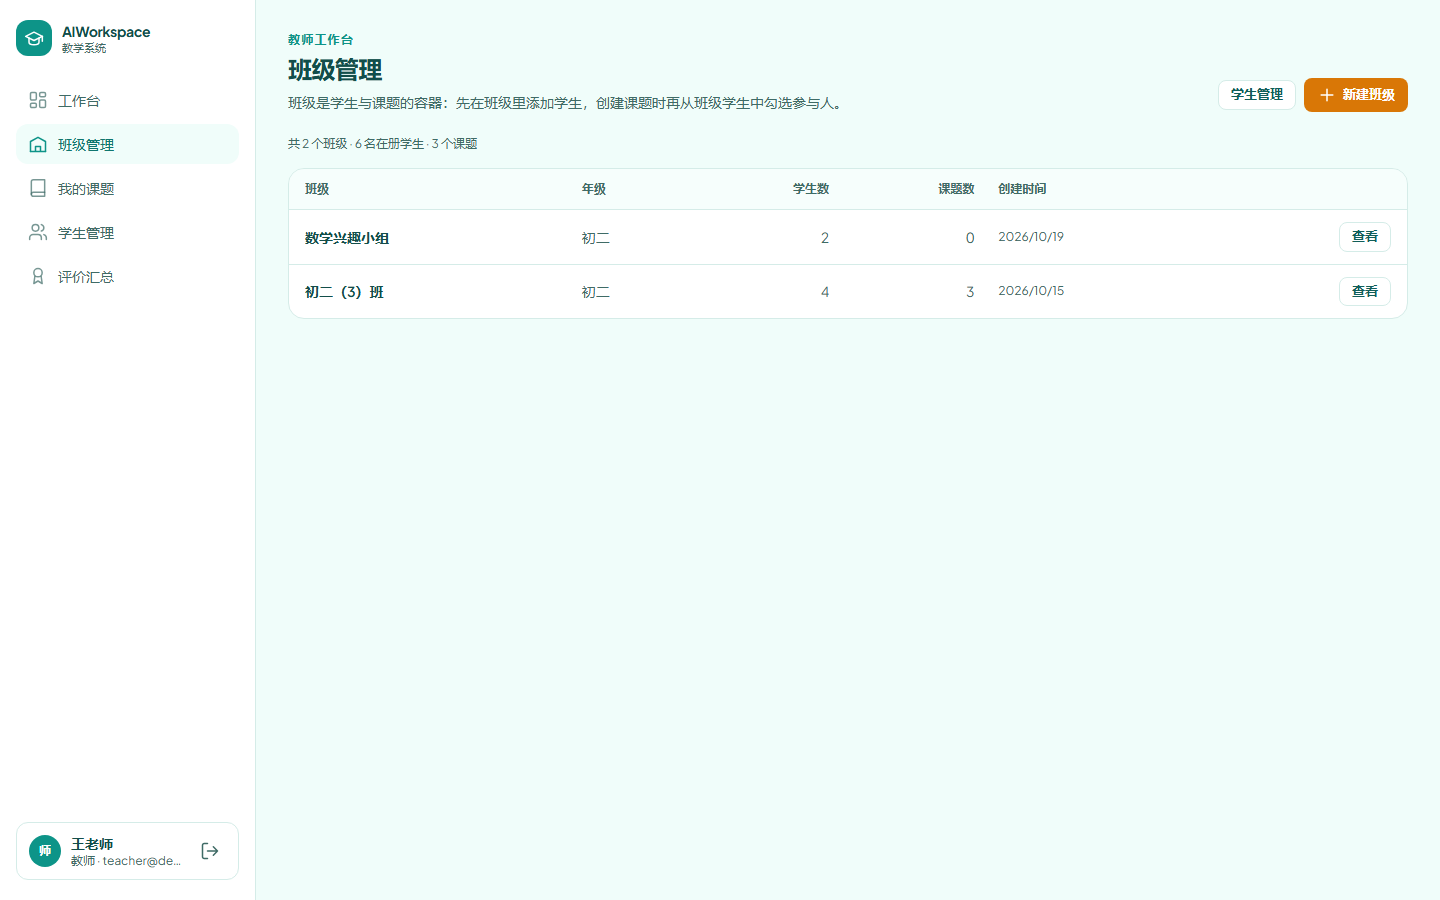
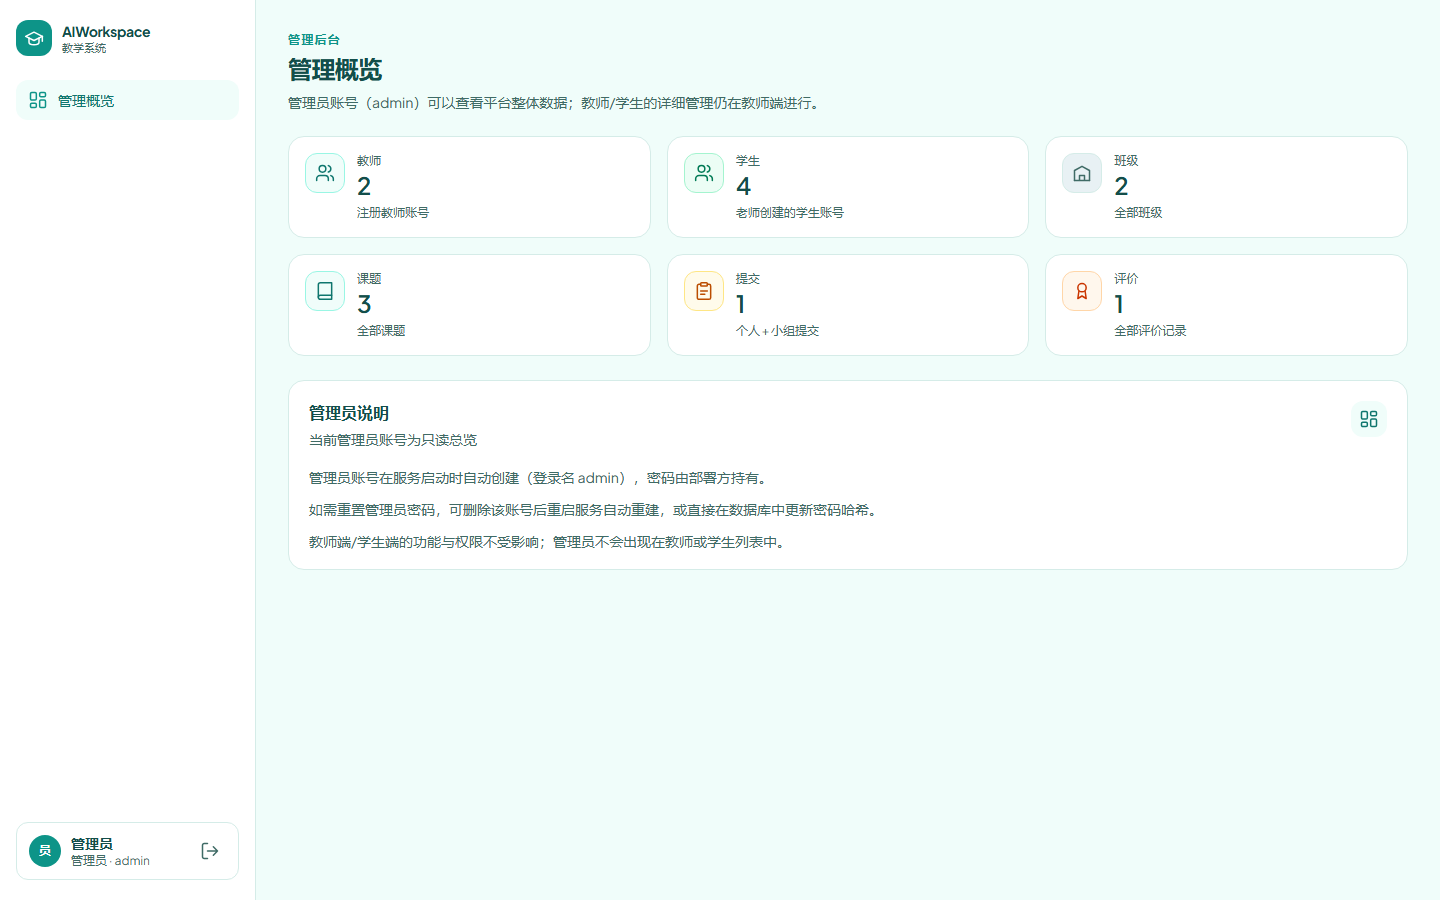
feat: 管理员账号与只读管理后台
- 服务启动时幂等确保 admin 账号（role=ADMIN，密码在服务端种子代码中，不进 README/记忆库）
- 新增 GET /api/admin/overview 只读统计（教师/学生/班级/课题/提交/评价），仅 ADMIN 可访问
- 前端新增 /admin 管理概览页，ADMIN 登录后跳转 /admin；教师/学生访问 admin 接口 403，admin 访问教师接口 403
- 截图脚本支持 CAPTURE_ADMIN_PASSWORD 环境变量（密码不入库）

diff --git a/web/src/pages/admin/Dashboard.tsx b/web/src/pages/admin/Dashboard.tsx
@@ -1,0 +1,81 @@
+import { useCallback, useEffect, useState } from "react";
+import { useAuth } from "@/components/auth/AuthProvider";
+import { AppShell } from "@/components/shell/AppShell";
+import { PageHeader } from "@/components/ui/page-header";
+import { StatCard } from "@/components/ui/stat-card";
+import { Card, CardContent, CardDescription, CardHeader, CardTitle } from "@/components/ui/card";
+import { IconAward, IconBook, IconClipboard, IconDashboard, IconSchool, IconUsers } from "@/components/ui/icons";
+import { api, errorMessage } from "@/lib/api";
+import type { AdminOverview } from "@/lib/types";
+
+export default function AdminDashboard() {
+  const { user } = useAuth();
+  const [data, setData] = useState<AdminOverview | null>(null);
+  const [loading, setLoading] = useState(true);
+  const [error, setError] = useState<string | null>(null);
+
+  const load = useCallback(async () => {
+    setLoading(true);
+    setError(null);
+    try {
+      setData(await api.get<AdminOverview>("/api/admin/overview"));
+    } catch (err) {
+      setError(errorMessage(err, "管理员数据加载失败，请刷新重试"));
+    } finally {
+      setLoading(false);
+    }
+  }, []);
+
+  useEffect(() => {
+    void load();
+  }, [load]);
+
+  if (!user) return null;
+
+  return (
+    <AppShell user={user}>
+      <PageHeader
+        eyebrow="管理后台"
+        title="管理概览"
+        description="管理员账号（admin）可以查看平台整体数据；教师/学生的详细管理仍在教师端进行。"
+        actions={null}
+      />
+
+      {loading ? (
+        <p className="text-sm text-ink-soft">正在加载…</p>
+      ) : error ? (
+        <div className="aw-card p-4">
+          <p className="text-sm text-danger">{error}</p>
+        </div>
+      ) : data ? (
+        <>
+          <div className="grid gap-4 sm:grid-cols-2 xl:grid-cols-3">
+            <StatCard label="教师" value={data.teacherCount} hint="注册教师账号" icon={<IconUsers />} tone="brand" />
+            <StatCard label="学生" value={data.studentCount} hint="老师创建的学生账号" icon={<IconUsers />} tone="success" />
+            <StatCard label="班级" value={data.classCount} hint="全部班级" icon={<IconSchool />} tone="neutral" />
+            <StatCard label="课题" value={data.topicCount} hint="全部课题" icon={<IconBook />} tone="brand" />
+            <StatCard label="提交" value={data.submissionCount} hint="个人 + 小组提交" icon={<IconClipboard />} tone="accent" />
+            <StatCard label="评价" value={data.evaluationCount} hint="全部评价记录" icon={<IconAward />} tone="warning" />
+          </div>
+
+          <Card className="mt-6">
+            <CardHeader>
+              <div>
+                <CardTitle>管理员说明</CardTitle>
+                <CardDescription>当前管理员账号为只读总览</CardDescription>
+              </div>
+              <span className="grid size-9 place-items-center rounded-xl bg-brand-50 text-brand-700">
+                <IconDashboard className="size-4" />
+              </span>
+            </CardHeader>
+            <CardContent className="space-y-2 text-sm leading-6 text-ink-soft">
+              <p>管理员账号在服务启动时自动创建（登录名 admin），密码由部署方持有。</p>
+              <p>如需重置管理员密码，可删除该账号后重启服务自动重建，或直接在数据库中更新密码哈希。</p>
+              <p>教师端/学生端的功能与权限不受影响；管理员不会出现在教师或学生列表中。</p>
+            </CardContent>
+          </Card>
+        </>
+      ) : null}
+    </AppShell>
+  );
+}

diff --git a/web/src/App.tsx b/web/src/App.tsx
@@ -4,6 +4,7 @@ import { useAuth } from "@/components/auth/AuthProvider";
 import { roleHome } from "@/lib/format";
 import LoginPage from "@/pages/Login";
 import RegisterPage from "@/pages/Register";
+import AdminDashboard from "@/pages/admin/Dashboard";
 import TeacherDashboard from "@/pages/teacher/Dashboard";
 import TeacherClasses from "@/pages/teacher/Classes";
 import TeacherClassDetail from "@/pages/teacher/ClassDetail";
@@ -115,6 +116,15 @@ export default function App() {
           </ProtectedRoute>
         }
       />
+      <Route
+        path="/admin"
+        element={
+          <ProtectedRoute role="ADMIN">
+            <AdminDashboard />
+          </ProtectedRoute>
+        }
+      />
+
       <Route
         path="/student/classes"
         element={

diff --git a/web/src/components/shell/AppShell.tsx b/web/src/components/shell/AppShell.tsx
@@ -26,7 +26,10 @@ type NavItem = {
 };
 
 function navForRole(role: string): NavItem[] {
-  if (role === "TEACHER" || role === "ADMIN") {
+  if (role === "ADMIN") {
+    return [{ href: "/admin", label: "管理概览", icon: <IconDashboard />, exact: true }];
+  }
+  if (role === "TEACHER") {
     return [
       { href: "/teacher", label: "工作台", icon: <IconDashboard />, exact: true },
       { href: "/teacher/classes", label: "班级管理", icon: <IconSchool /> },

diff --git a/server/webdist/index.html b/server/webdist/index.html
@@ -6,7 +6,7 @@
     <meta name="viewport" content="width=device-width, initial-scale=1.0" />
     <meta name="theme-color" content="#0d9488" />
     <title>AIWorkspace 教学系统</title>
-    <script type="module" crossorigin src="/assets/index-BxZZg2bE.js"></script>
+    <script type="module" crossorigin src="/assets/index-CN7VDLG_.js"></script>
     <link rel="stylesheet" crossorigin href="/assets/index-Dx3OoNE8.css">
   </head>
   <body>

diff --git a/web/src/lib/types.ts b/web/src/lib/types.ts
@@ -267,3 +267,14 @@ export interface MyGroup {
 }
 
 export type SubmitMode = "INDIVIDUAL" | "GROUP";
+
+// ---------------- admin ----------------
+
+export interface AdminOverview {
+  teacherCount: number;
+  studentCount: number;
+  classCount: number;
+  topicCount: number;
+  submissionCount: number;
+  evaluationCount: number;
+}

diff --git a/web/src/lib/format.ts b/web/src/lib/format.ts
@@ -70,5 +70,6 @@ export function initials(name: string): string {
 }
 
 export function roleHome(role: string): string {
-  return role === "TEACHER" || role === "ADMIN" ? "/teacher" : "/student";
+  if (role === "ADMIN") return "/admin";
+  return role === "TEACHER" ? "/teacher" : "/student";
 }

diff --git a/server/internal/db/seed.go b/server/internal/db/seed.go
@@ -14,6 +14,38 @@ import (
 // DemoPassword 演示账号统一密码。
 const DemoPassword = "demo1234"
 
+// 管理员账号：启动时通过 EnsureAdmin 幂等创建（已有则不修改密码）。
+// 密码由部署方持有，不在 README / 记忆库中公开。
+const (
+	AdminLoginID  = "admin"
+	AdminPassword = "CloUD123456!=CLUD"
+)
+
+// EnsureAdmin 确保存在管理员账号（role=ADMIN）。已存在则不做任何修改。
+func EnsureAdmin(db *sql.DB) error {
+	var count int
+	if err := db.QueryRow(`SELECT COUNT(*) FROM users WHERE login_id = ?`, AdminLoginID).Scan(&count); err != nil {
+		return fmt.Errorf("检查管理员账号失败: %w", err)
+	}
+	if count > 0 {
+		return nil
+	}
+	hash, err := auth.HashPassword(AdminPassword)
+	if err != nil {
+		return fmt.Errorf("生成管理员密码失败: %w", err)
+	}
+	now := FormatTime(time.Now().UTC())
+	_, err = db.Exec(
+		`INSERT INTO users (id, login_id, name, role, password_hash, avatar_color, created_by, created_at, updated_at)
+		 VALUES (?, ?, ?, ?, ?, ?, NULL, ?, ?)`,
+		NewID("u"), AdminLoginID, "管理员", "ADMIN", hash, "#0D9488", now, now,
+	)
+	if err != nil {
+		return fmt.Errorf("创建管理员账号失败: %w", err)
+	}
+	return nil
+}
+
 // Seed 在 users 表为空时写入 v4 演示数据；返回是否真正写入了数据。
 //
 // 演示数据与 docs/CONTRACT.md 第 10.5 节（v4）保持一致：

diff --git a/server/internal/handlers/admin.go b/server/internal/handlers/admin.go
@@ -1,0 +1,33 @@
+package handlers
+
+import (
+	"net/http"
+
+	"aiworkspace/server/internal/models"
+)
+
+// AdminOverview GET /api/admin/overview：管理员总览统计（只读）。
+func (h *API) AdminOverview(w http.ResponseWriter, r *http.Request) {
+	ctx := r.Context()
+	var overview models.AdminOverview
+
+	queries := []struct {
+		dest *int
+		sql  string
+	}{
+		{&overview.TeacherCount, `SELECT COUNT(*) FROM users WHERE role = 'TEACHER'`},
+		{&overview.StudentCount, `SELECT COUNT(*) FROM users WHERE role = 'STUDENT'`},
+		{&overview.ClassCount, `SELECT COUNT(*) FROM classes`},
+		{&overview.TopicCount, `SELECT COUNT(*) FROM topics`},
+		{&overview.SubmissionCount, `SELECT COUNT(*) FROM submissions`},
+		{&overview.EvaluationCount, `SELECT COUNT(*) FROM evaluations`},
+	}
+	for _, q := range queries {
+		if err := h.DB.QueryRowContext(ctx, q.sql).Scan(q.dest); err != nil {
+			serverError(w, err)
+			return
+		}
+	}
+
+	writeJSON(w, http.StatusOK, overview)
+}

diff --git a/server/internal/handlers/handlers.go b/server/internal/handlers/handlers.go
@@ -101,6 +101,9 @@ func (h *API) Mount(mux *http.ServeMux) {
 	mux.HandleFunc("PATCH /api/teacher/topics/{id}/dimensions/{dimId}", h.Auth.RequireRole(roleTeacher, h.UpdateDimension))
 	mux.HandleFunc("DELETE /api/teacher/topics/{id}/dimensions/{dimId}", h.Auth.RequireRole(roleTeacher, h.DeleteDimension))
 
+	// 管理员（需 ADMIN）：启动时自动确保 admin 账号存在
+	mux.HandleFunc("GET /api/admin/overview", h.Auth.RequireRole(roleAdmin, h.AdminOverview))
+
 	mux.HandleFunc("GET /api/teacher/students", h.Auth.RequireRole(roleTeacher, h.TeacherStudents))
 	mux.HandleFunc("GET /api/teacher/students/lookup", h.Auth.RequireRole(roleTeacher, h.studentLookup))
 	mux.HandleFunc("POST /api/teacher/students", h.Auth.RequireRole(roleTeacher, h.CreateStudent))

diff --git a/server/internal/models/models.go b/server/internal/models/models.go
@@ -204,6 +204,16 @@ type TeacherTopic struct {
 	UpdatedAt       string `json:"updatedAt"`
 }
 
+// AdminOverview GET /api/admin/overview 管理员总览统计。
+type AdminOverview struct {
+	TeacherCount    int `json:"teacherCount"`
+	StudentCount    int `json:"studentCount"`
+	ClassCount      int `json:"classCount"`
+	TopicCount      int `json:"topicCount"`
+	SubmissionCount int `json:"submissionCount"`
+	EvaluationCount int `json:"evaluationCount"`
+}
+
 // TeacherTopicPage GET /api/teacher/topics 分页响应。
 type TeacherTopicPage struct {
 	Items    []TeacherTopic `json:"items"`

diff --git a/server/cmd/server/main.go b/server/cmd/server/main.go
@@ -76,6 +76,11 @@ func main() {
 		log.Printf("SEED_ON_START 已关闭，跳过演示数据")
 	}
 
+	// ---------- 管理员账号（幂等，任何库结构下都确保存在） ----------
+	if err := db.EnsureAdmin(database); err != nil {
+		log.Printf("确保管理员账号失败：%v", err)
+	}
+
 	// ---------- 路由 ----------
 	authenticator := auth.New(database, secret, secureCookie)
 	api := handlers.New(database, authenticator, uploadDir)
